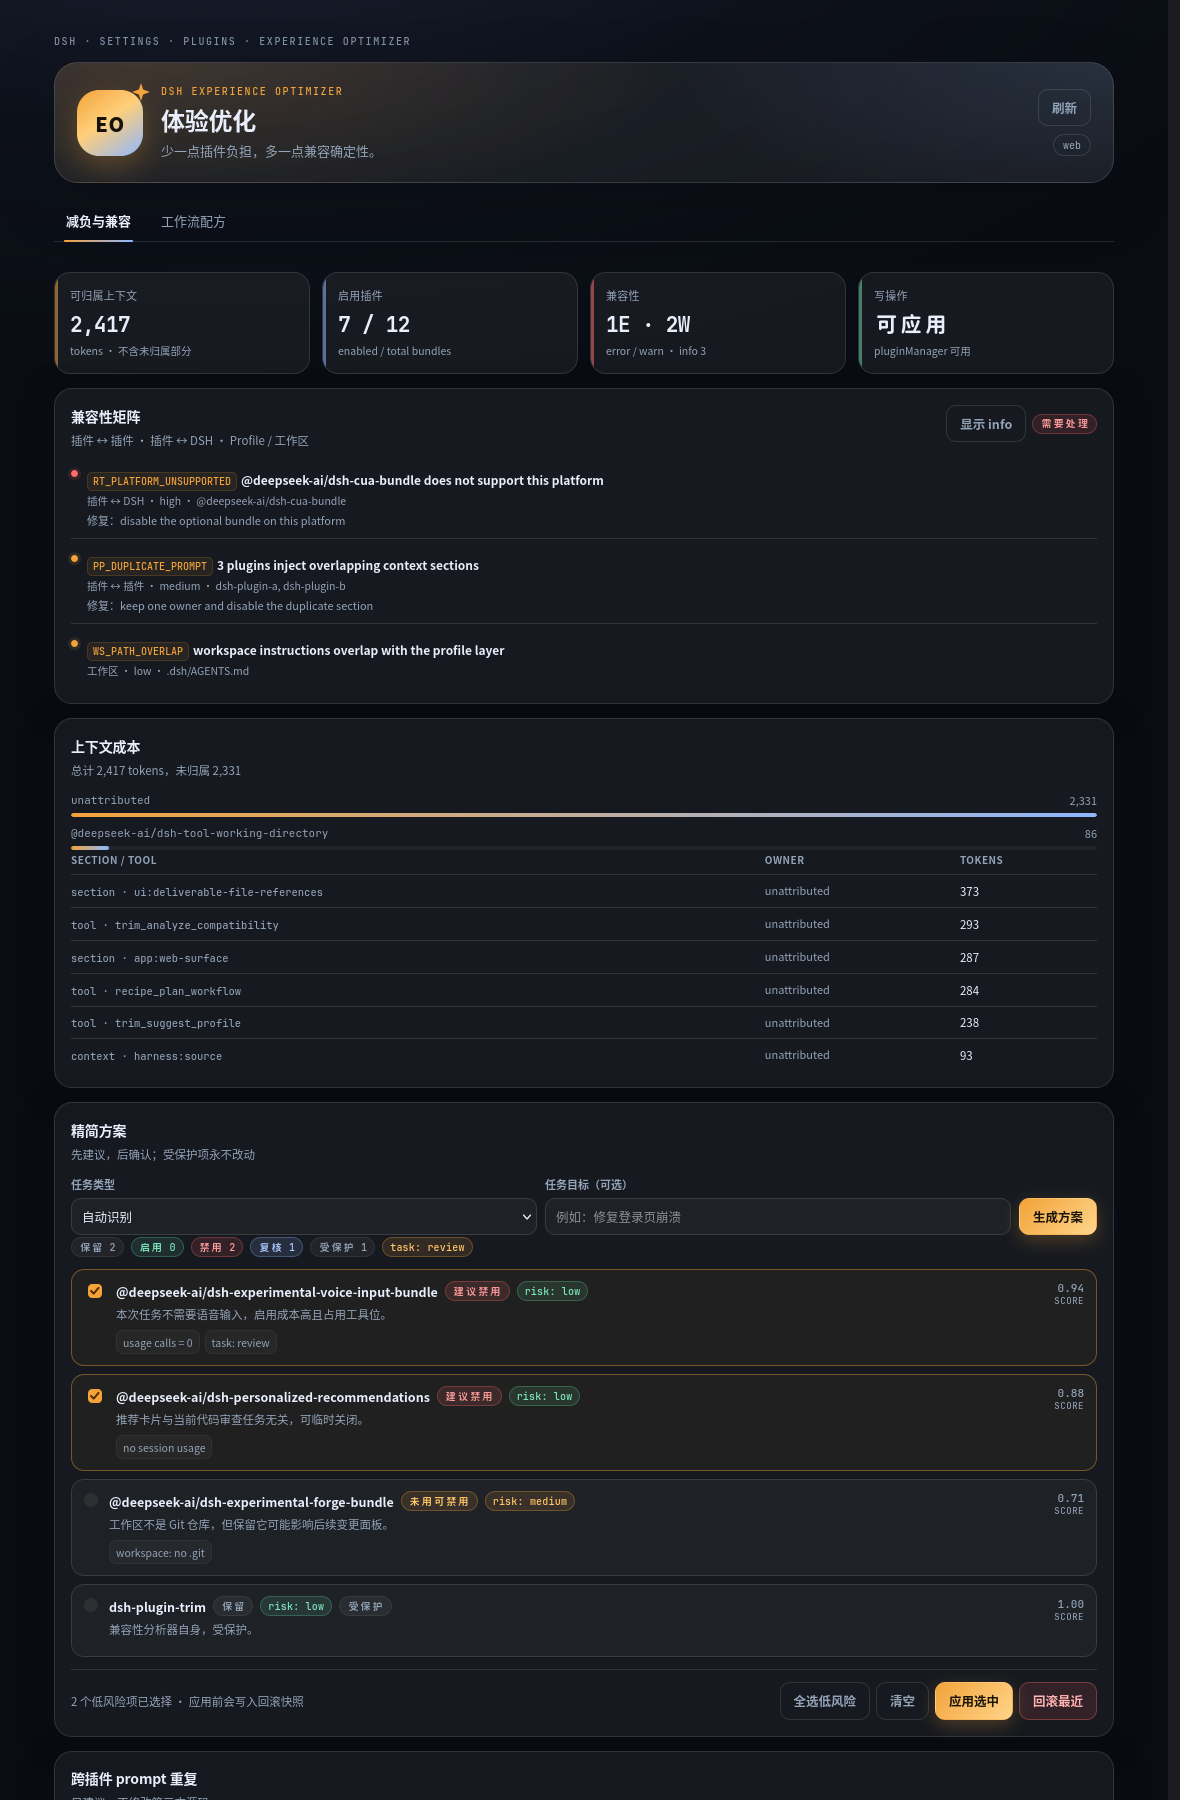
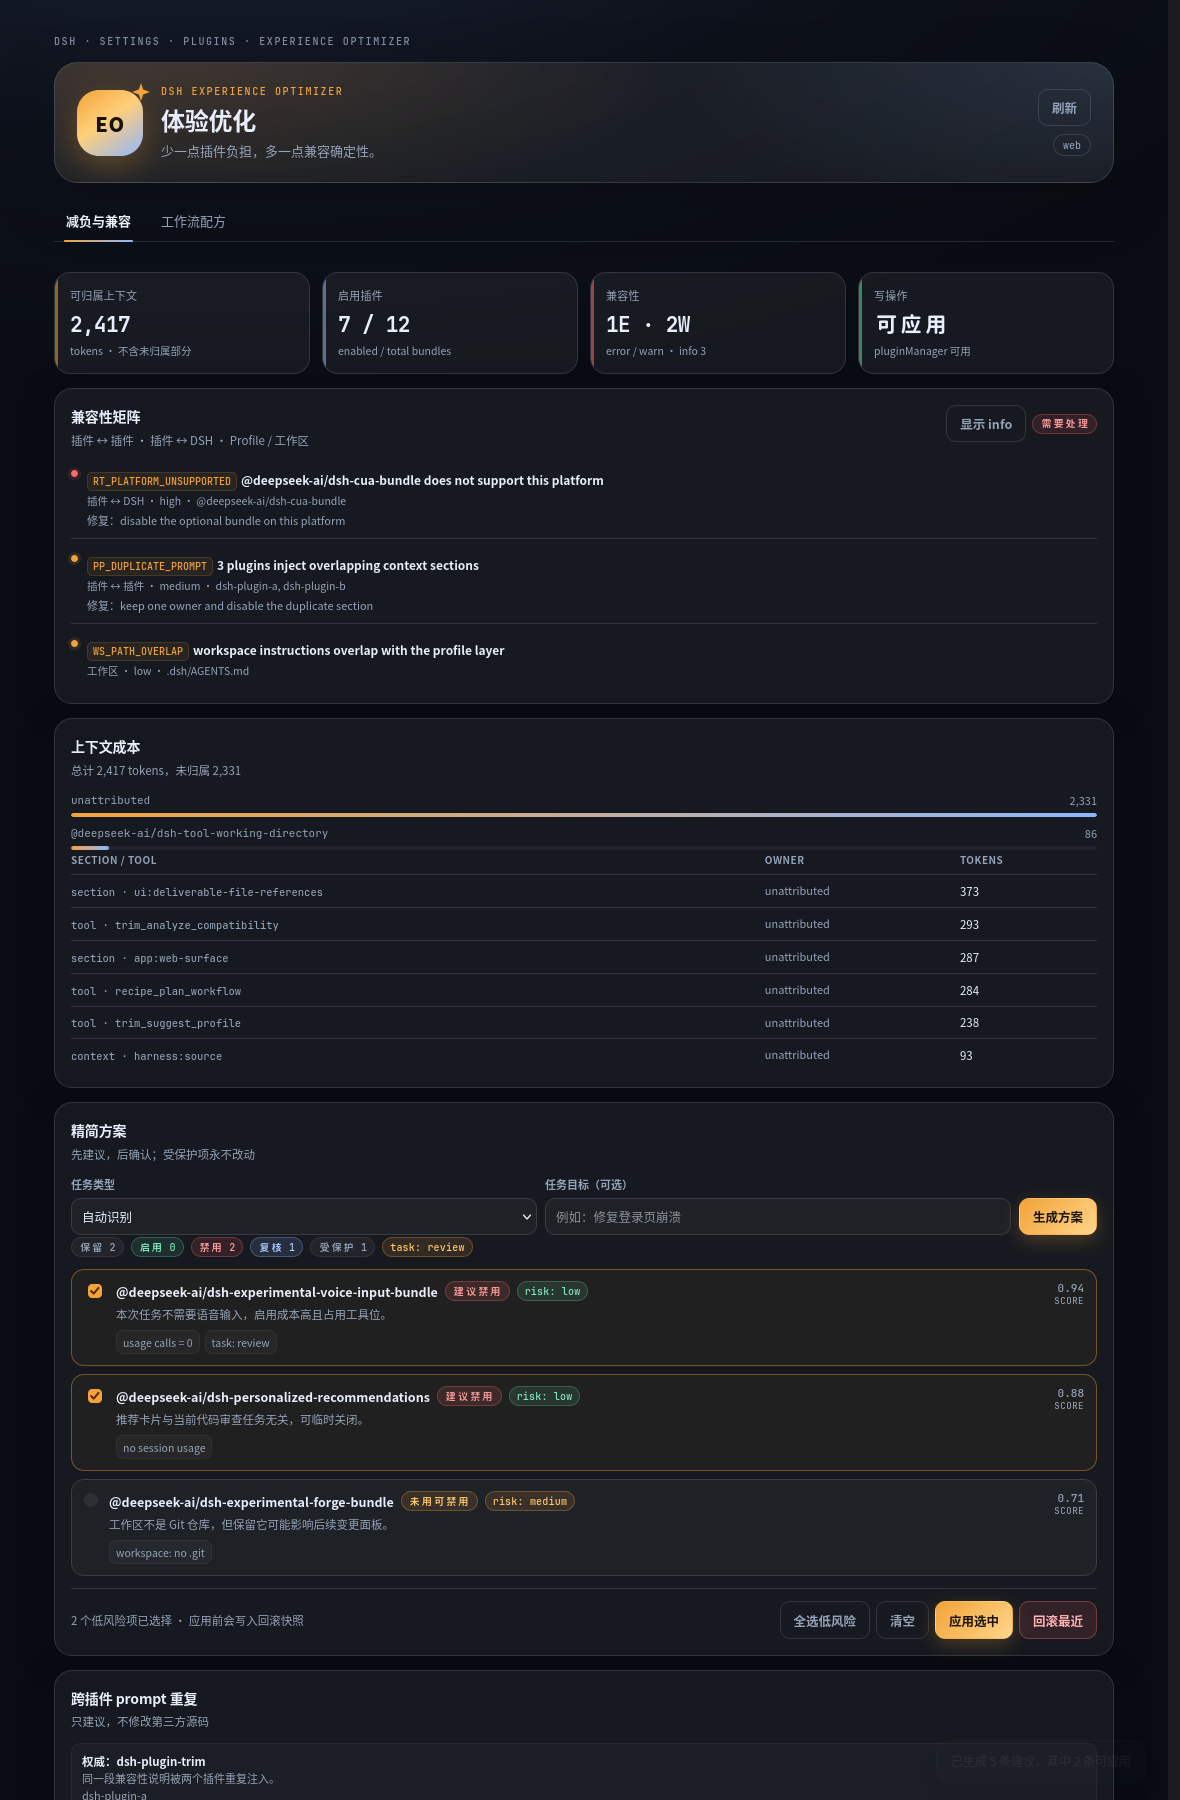
fix: focus web console on actionable suggestions

diff --git a/packages/plugin-trim/client.js b/packages/plugin-trim/client.js
@@ -42,7 +42,7 @@ window.__ModuleLoader__.load({
 .eo-tab-active:after{content:"";position:absolute;left:10px;right:10px;bottom:-1px;height:2px;border-radius:2px;background:linear-gradient(90deg,var(--eo-accent),var(--eo-blue))}
 .eo-stack{display:flex;flex-direction:column;gap:14px}
 .eo-grid{display:grid;gap:12px}
-.eo-metrics{grid-template-columns:repeat(4,minmax(0,1fr));margin-top:16px}
+.eo-metrics{grid-template-columns:repeat(auto-fit,minmax(160px,1fr));margin-top:16px}
 .eo-metric{padding:14px 15px;border-radius:16px;background:var(--dsw-alias-bg-layer-2,rgba(127,127,127,.06));border:1px solid var(--dsw-alias-border-l2,rgba(127,127,127,.16));position:relative;overflow:hidden}
 .eo-metric:before{content:"";position:absolute;inset:0 auto 0 0;width:3px;background:var(--eo-accent);opacity:.55}
 .eo-metric[data-tone="blue"]:before{background:var(--eo-blue)}
@@ -378,7 +378,9 @@ window.__ModuleLoader__.load({
       const selectedIds = Object.keys(selected).filter((id) => selected[id])
       const selectedCount = selectedIds.length
       const draftItems = draft ? draft.items : []
-      const selectedItems = draftItems.filter((item) => selected[item.id])
+      const actionableDraftItems = draftItems.filter(
+        (item) => item.action !== 'keep' && item.protected !== true,
+      )
 
       const generateDraft = useCallback(async () => {
         setDraftBusy(true)
@@ -861,11 +863,16 @@ window.__ModuleLoader__.load({
                     h(Badge, { tone: 'neutral' }, '受保护 ' + draft.summary.protected),
                     h(Badge, { tone: 'warn' }, 'task: ' + draft.task.tag),
                   ),
-                  h(
+                  actionableDraftItems.length === 0
+                    ? h(
+                        'div',
+                        { className: 'eo-empty' },
+                        '当前没有可裁剪项：所有插件均受保护，或与当前任务匹配。',
+                      )
+                    : h(
                     'div',
                     { className: 'eo-list' },
-                    draftItems
-                      .filter((item) => item.action !== 'keep' || item.protected)
+                    actionableDraftItems
                       .slice(0, 60)
                       .map((item) =>
                         h(
@@ -919,7 +926,7 @@ window.__ModuleLoader__.load({
                           ),
                         ),
                       ),
-                  ),
+                    ),
                   h(
                     'div',
                     { className: 'eo-applybar' },

diff --git a/marketplace/README.md b/marketplace/README.md
@@ -60,7 +60,7 @@ pnpm market:index
 首次发布需要：
 
 1. 在 GitHub 仓库 Settings → Secrets 中配置 `NPM_TOKEN`；
-2. 推送 `v0.2.0` tag；
+2. 推送 `v0.2.1` tag；
 3. 工作流运行 `pnpm verify` 后依次发布 `dsh-plugin-trim`、`dsh-plugin-recipe`。
 
 发布后，dsh-plugin.org / dsh.so 可以直接用 npm 包名收录，用户也可以：
@@ -74,5 +74,5 @@ dsh plugin --profile web add dsh-plugin-recipe
 
 当前未发布 npm 时，推荐直接安装 release tarball：
 
-dsh plugin --profile web add "https://github.com/Starlit-Sky-code/dsh-experience-optimizer/releases/download/v0.2.0/dsh-plugin-trim-0.2.0.tgz"
-dsh plugin --profile web add "https://github.com/Starlit-Sky-code/dsh-experience-optimizer/releases/download/v0.2.0/dsh-plugin-recipe-0.2.0.tgz"
+dsh plugin --profile web add "https://github.com/Starlit-Sky-code/dsh-experience-optimizer/releases/download/v0.2.1/dsh-plugin-trim-0.2.1.tgz"
+dsh plugin --profile web add "https://github.com/Starlit-Sky-code/dsh-experience-optimizer/releases/download/v0.2.1/dsh-plugin-recipe-0.2.1.tgz"

diff --git a/marketplace/STATUS.md b/marketplace/STATUS.md
@@ -7,10 +7,10 @@
 - 仓库：<https://github.com/Starlit-Sky-code/dsh-experience-optimizer>
 - 默认分支：`main`
 - Topics：`dsh-plugin`、`deepseek-harness`、`dsh-plugin-suite`、`plugin-compatibility`、`workflow`
-- Release：<https://github.com/Starlit-Sky-code/dsh-experience-optimizer/releases/tag/v0.2.0>
+- Release：<https://github.com/Starlit-Sky-code/dsh-experience-optimizer/releases/tag/v0.2.1>
 - Release assets：
-  - `dsh-plugin-trim-0.2.0.tgz`
-  - `dsh-plugin-recipe-0.2.0.tgz`
+  - `dsh-plugin-trim-0.2.1.tgz`
+  - `dsh-plugin-recipe-0.2.1.tgz`
 - CI：`.github/workflows/ci.yml`
 - Release 工作流：`.github/workflows/release.yml`（没有 `NPM_TOKEN` 时跳过 npm 发布，仅创建 GitHub release；自动上传 release tarball）
 - 安装验证：在临时 headless profile 中执行 `dsh plugin add <release tarball>` 与 `dsh plugin add <pinned git spec>` 均成功，`--dump-config` 出现 `dsh-plugin-trim` row

diff --git a/marketplace/dsh-plugin-org.md b/marketplace/dsh-plugin-org.md
@@ -31,8 +31,8 @@ DSH Experience Optimizer — 插件减负、兼容性体检与工作流蓝图
 **安装命令**
 
 ```bash
-dsh plugin --profile web add "https://github.com/Starlit-Sky-code/dsh-experience-optimizer/releases/download/v0.2.0/dsh-plugin-trim-0.2.0.tgz"
-dsh plugin --profile web add "https://github.com/Starlit-Sky-code/dsh-experience-optimizer/releases/download/v0.2.0/dsh-plugin-recipe-0.2.0.tgz"
+dsh plugin --profile web add "https://github.com/Starlit-Sky-code/dsh-experience-optimizer/releases/download/v0.2.1/dsh-plugin-trim-0.2.1.tgz"
+dsh plugin --profile web add "https://github.com/Starlit-Sky-code/dsh-experience-optimizer/releases/download/v0.2.1/dsh-plugin-recipe-0.2.1.tgz"
 ```
 
 **长描述**

diff --git a/marketplace/dsh-so.md b/marketplace/dsh-so.md
@@ -47,8 +47,8 @@ DSH: `>=0.2.2-rc.1 <0.3.0`; Node: `>=20`.
 **安装命令**
 
 ```bash
-dsh plugin --profile web add "https://github.com/Starlit-Sky-code/dsh-experience-optimizer/releases/download/v0.2.0/dsh-plugin-trim-0.2.0.tgz"
-dsh plugin --profile web add "https://github.com/Starlit-Sky-code/dsh-experience-optimizer/releases/download/v0.2.0/dsh-plugin-recipe-0.2.0.tgz"
+dsh plugin --profile web add "https://github.com/Starlit-Sky-code/dsh-experience-optimizer/releases/download/v0.2.1/dsh-plugin-trim-0.2.1.tgz"
+dsh plugin --profile web add "https://github.com/Starlit-Sky-code/dsh-experience-optimizer/releases/download/v0.2.1/dsh-plugin-recipe-0.2.1.tgz"
 ```
 
 **Topics**

diff --git a/CHANGELOG.md b/CHANGELOG.md
@@ -3,6 +3,16 @@
 All notable changes to this repository are documented here. Versions follow
 [Semantic Versioning](https://semver.org/).
 
+## [0.2.1] - 2026-11-08
+
+### Fixed
+
+- The Web console's slim-suggestion list now hides protected `keep` rows, so a
+  profile with many protected plugins shows only actionable suggestions; an empty
+  state explains when nothing can be trimmed.
+- Metric cards use `auto-fit` columns so four cards do not get cramped inside the
+  Settings modal.
+
 ## [0.2.0] - 2026-11-08
 
 ### Added

diff --git a/packages/plugin-trim/README.md b/packages/plugin-trim/README.md
@@ -7,7 +7,7 @@ DSH 插件生态的**减负**与**兼容性体检**插件。
 从 GitHub Release 安装（当前推荐，无需 npm）：
 
 ```bash
-dsh plugin --profile web add "https://github.com/Starlit-Sky-code/dsh-experience-optimizer/releases/download/v0.2.0/dsh-plugin-trim-0.2.0.tgz"
+dsh plugin --profile web add "https://github.com/Starlit-Sky-code/dsh-experience-optimizer/releases/download/v0.2.1/dsh-plugin-trim-0.2.1.tgz"
 ```
 
 发布到 npm 后：

diff --git a/packages/plugin-recipe/README.md b/packages/plugin-recipe/README.md
@@ -7,7 +7,7 @@
 从 GitHub Release 安装（当前推荐，无需 npm）：
 
 ```bash
-dsh plugin --profile web add "https://github.com/Starlit-Sky-code/dsh-experience-optimizer/releases/download/v0.2.0/dsh-plugin-recipe-0.2.0.tgz"
+dsh plugin --profile web add "https://github.com/Starlit-Sky-code/dsh-experience-optimizer/releases/download/v0.2.1/dsh-plugin-recipe-0.2.1.tgz"
 ```
 
 发布到 npm 后：
